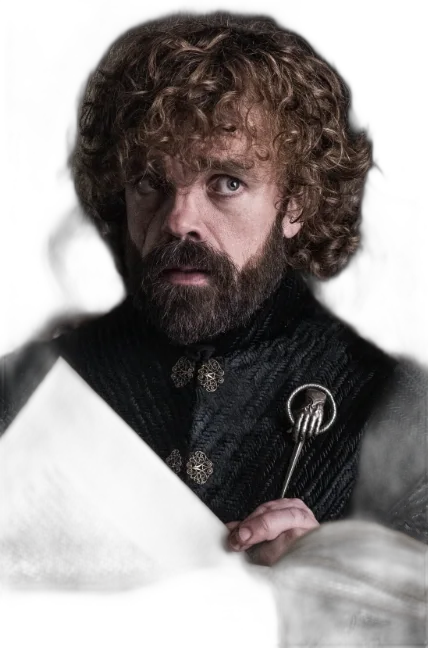
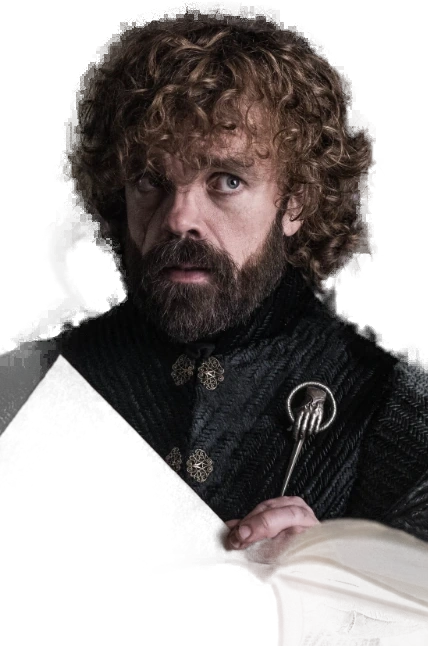
Colleague test: midway breather; ship updated character art; repo hygiene
- Add a one-time "you're halfway, thank you" encouragement screen at the survey midpoint
  (Keep going → continues to the second half).
- Commit the updated character portraits (public/characters/*.webp) so the live site
  matches the local literary-hero art.
- gitignore tooling/scratch (.claude/, deno.lock, supabase/.temp/, screenshot dirs) and
  untrack the stray CLI temp file.
- TODO note in index.html for the personalized per-invite share preview (infra-gated).

diff --git a/apps/fishbowl/src/pages/Questionnaire.tsx b/apps/fishbowl/src/pages/Questionnaire.tsx
@@ -94,6 +94,8 @@ export default function Questionnaire() {
   const [via] = useState<string[]>(() => (saved.via as string[]) ?? [])
   const [johari, setJohari] = useState<string[]>(() => (saved.johari as string[]) ?? [])
   const [nohari, setNohari] = useState<string[]>(() => (saved.nohari as string[]) ?? [])
+  // One-time midway breather (thank + encourage to finish).
+  const [midSeen, setMidSeen] = useState(false)
   // First-open explainer: the friend often gets this link with zero context, so we
   // spell out what it is (anonymous, to help the person grow) before the first question.
   // Shown once per link (localStorage-gated).
@@ -372,6 +374,32 @@ export default function Questionnaire() {
   }
 
   const pct = ((i + 1) / questions.length) * 100
+
+  // A one-time breather at the halfway point: thank them and nudge them to finish.
+  const midIdx = Math.floor(questions.length / 2)
+  if (!midSeen && !isLast && i === midIdx && questions.length >= 8) {
+    return (
+      <div className="mx-auto flex min-h-dvh w-full max-w-xl flex-col justify-center px-5">
+        <motion.div initial={{ opacity: 0, y: 16 }} animate={{ opacity: 1, y: 0 }} className="text-center">
+          <div className="text-6xl">🌊</div>
+          <p className="kicker mt-4 text-pink-deep">halfway there</p>
+          <h1 className="display mt-2 text-4xl leading-tight">You&rsquo;re halfway. Thank you.</h1>
+          <p className="serif mt-3 text-lg leading-snug text-ink-soft">
+            Most people never do this for someone. {session.creator_name} is going to feel it — and the richest
+            part of their report comes from the second half.
+          </p>
+          <div className="mt-5 inline-block rounded-2xl border-2 border-ink bg-paper-hi px-4 py-2 text-sm font-semibold text-ink shadow-chunky-sm">
+            {Math.round(pct)}% done · just a few minutes left
+          </div>
+          <div className="mt-7">
+            <Button variant="pink" onClick={() => setMidSeen(true)} className="!text-xl">
+              Keep going →
+            </Button>
+          </div>
+        </motion.div>
+      </div>
+    )
+  }
 
   return (
     <div className="mx-auto flex min-h-dvh w-full max-w-xl flex-col px-5">

diff --git a/apps/fishbowl/index.html b/apps/fishbowl/index.html
@@ -7,6 +7,13 @@
     <meta name="color-scheme" content="only light" />
     <title>Fishbowl — see yourself through your team's eyes</title>
 
+    <!-- TODO(personalized-share-preview): make the invite link's preview name the creator
+         (e.g. "Answer a quiz to help Maria grow") instead of this global card. Blocked on
+         infra: link crawlers strip the #/s/<slug> fragment and GitHub Pages is static, so
+         it needs path-based invite links + hosting that can run per-request logic
+         (Cloudflare Pages Functions / Netlify Edge — NOT Vercel) to inject the creator name
+         per slug. Keep this generic card as the fallback. -->
+
     <!-- Social share preview (Open Graph + Twitter). These are static and GLOBAL: on
          GitHub Pages with hash routing, a link crawler never sees the #/s/<slug> part and
          there is no server to vary the tags, so every link shares one preview. The copy
